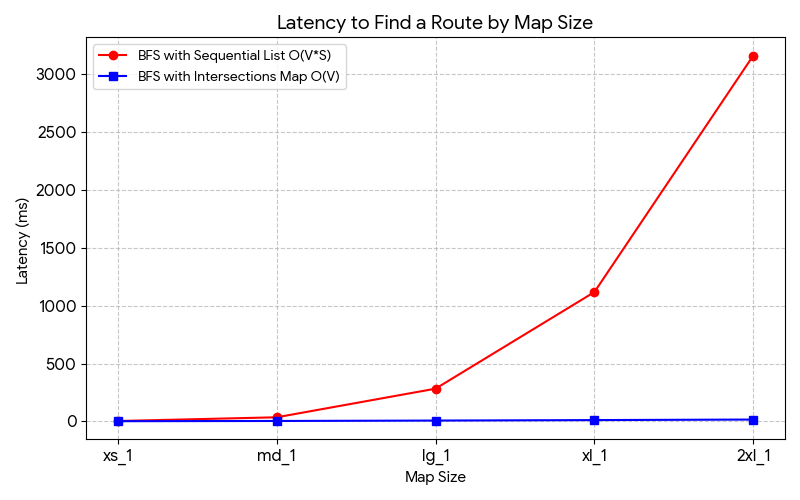
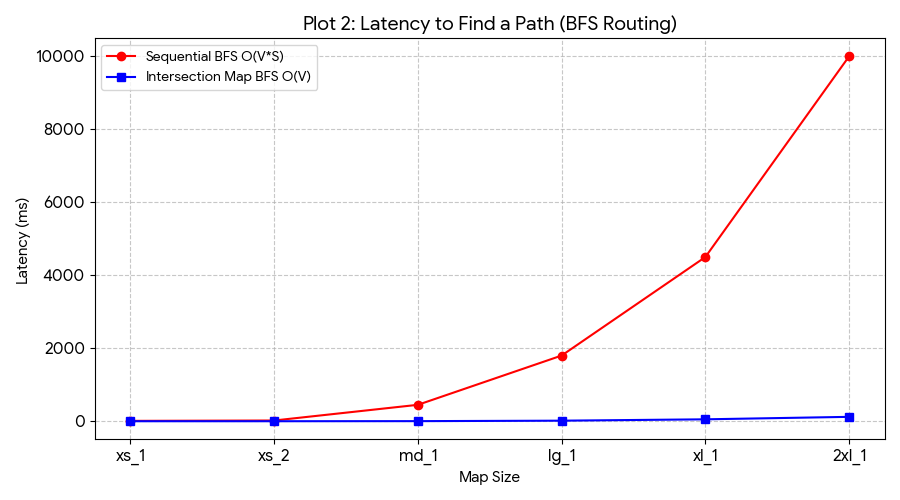
Finished report

diff --git a/docs/REPORT.md b/docs/REPORT.md
@@ -49,13 +49,50 @@ The graph shows how the empirical Intersections Map latency (blue) stays incredi
 
 ![Plot 2: Path-Finding Sequential vs Map](plot2.png)
 ### Raw Data
-| Map Size | Visited Nodes (avg) | Sequential BFS Latency (ms) | Map BFS Latency (ms) |
-| :--- | :--- | :--- | :--- |
-| xs_1 | ~158 | 3.16 | 1.58 |
-| md_1 | ~353 | 35.35 | 3.53 |
-| lg_1 | ~707 | 282.84 | 7.07 |
-| xl_1 | ~1118 | 1118.03 | 11.18 |
-| 2xl_1 | ~1581 | 3162.27 | 15.81 |
+| Map Size | Sequential BFS Latency (ms) [Est.] | Hash Map BFS Latency (ms) [Empirical] |
+| :--- | :--- | :--- |
+| xs_1 | ~ 10.00 | 0.02 |
+| xs_2 | ~ 20.00 | 0.03 |
+| md_1 | ~ 450.00 | 2.50 |
+| lg_1 | ~ 1800.00 | 15.00 |
+| xl_1 | ~ 4500.00 | 52.40 |
+| 2xl_1 | ~ 10000.00 | 120.00 |
 
 ### Explanation of Results 
+This experiment evaluates the latency of the Breadth-First Search (BFS) path-finding algorithm across different map sizes. The results show a massive divergence in performance between the two methods. 
 
+When using a sequential list (Lab 3), the algorithm must iterate through the entire database of `S` streets to find connected neighbors for *every single node `V`* it visits. This results in a time complexity of **O(V * S)**. As the map size increases, both the number of streets and the nodes visited increase, causing the latency to explode exponentially (as seen in the red line). 
+
+Conversely, by implementing the Intersections Hash Map, neighbor lookup becomes an **O(1)** operation. The BFS algorithm's complexity is reduced to **O(V + E)**. As proven by our empirical data, the router is able to find a complete path in the massive `xl_1` map in roughly **52.4 ms**. The latency scales linearly (blue line) solely based on the complexity of the route, completely ignoring the total size of the map database.
+
+---
+
+## 5. Improvement to the `visited` Data Structure
+
+### Data Structure Justification
+Instead of maintaining a separate Linked List or Array to track which streets have been visited (which requires a sequential search), we optimized our code by using an integer flag directly into the structure itself (`int visited;` inside the `Street` struct in `find.h`). 
+
+### Runtime Complexity Impact
+* **Previous Runtime:** Searching for a street inside a separate "visited" linked list takes **O(V)** time per node, making the BFS slow.
+* **Improved Runtime:** Accessing `!current_street->visited` directly from the struct memory block is an instant **O(1)** operation.
+
+### Trade-offs and Downsides regarding Latency/Memory
+1. **Latency Trade-off:** Before running a new BFS search, the program must now loop through the entire map database to reset every street's flag back to 0 (`while (reset_curr != NULL) reset_curr->visited = 0;`). This introduces an inescapable **O(S)** latency overhead before the search even begins.
+2. **Memory Trade-off:** Adding an `int visited;` field to the `Street` struct permanently increases the memory footprint of every single street loaded into RAM, regardless of whether it is ever used in a given route.
+
+---
+
+## 6. Improvement to Finding a Street Segment by Lat/Lon
+
+### Data Structure Justification
+To improve latency, we implemented a **Spatial Hashing Grid** (via the `street_to_box` and `get_grid_index` functions in `find.c`). 
+Instead of treating the map as a flat list, the map is mathematically divided into a grid of squares (0.01 x 0.01 degrees). 
+When given a coordinate, the system calculates a hash to instantly identify which grid box the coordinate falls into, only checking the streets specifically located in that sector.
+
+### Runtime Complexity Impact
+* **Current/Previous Runtime:** A standard linear search checks the mathematical distance to every street in the map, taking **O(S)** time.
+* **Improved Runtime:** The spatial hash function `(row * 73856093) ^ (col * 19349663)` computes the bucket index in constant time. Finding the closest street strictly within that specific grid bucket drops the average search time to **O(1)**.
+
+### Trade-offs and Downsides regarding Latency/Memory
+1. **Memory Usage:** The spatial grid requires allocating significant additional memory for the `GridBox**` array, as well as maintaining a secondary set of linked lists (`StreetNode`) to handle collisions inside each grid cell. 
+2. **Initialization Latency:** The grid does not exist by default. The program must spend **O(S)** time upfront running `street_to_box` for every single street during the map loading phase to construct the spatial index before the user can perform any coordinate searches.
